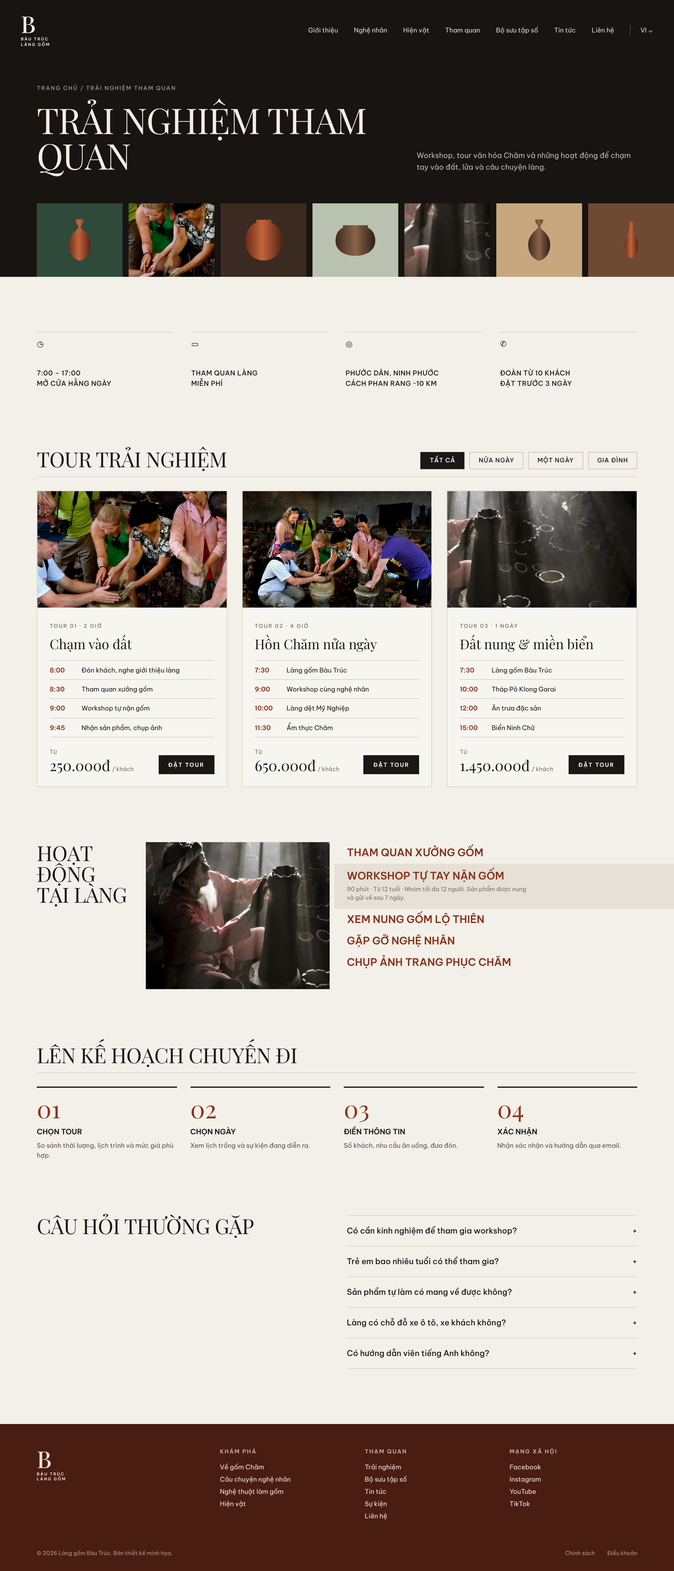
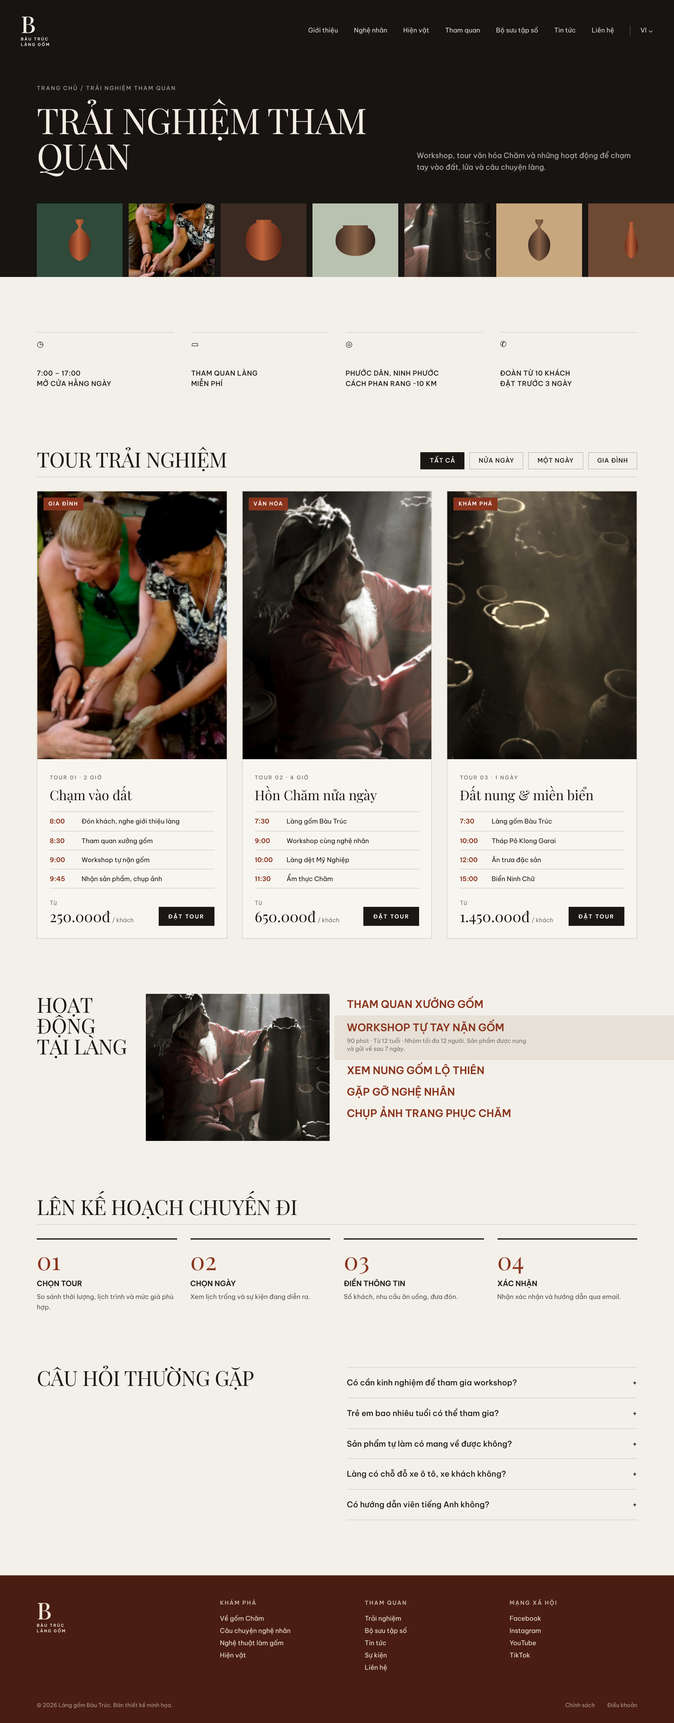
A4 tour cards and tour detail page mockup
Claude-Session: https://claude.ai/code/session_01ADwpjtFCyopsj64y6iybqi

diff --git a/design/subpages/chi-tiet-tour.html b/design/subpages/chi-tiet-tour.html
@@ -1,0 +1,230 @@
+<!doctype html>
+<html lang="vi">
+<head>
+<meta charset="UTF-8">
+<meta name="viewport" content="width=device-width,initial-scale=1">
+<title>Làng gốm Bàu Trúc</title>
+<link rel="preconnect" href="https://fonts.googleapis.com">
+<link href="https://fonts.googleapis.com/css2?family=Playfair+Display:wght@400;500&family=Be+Vietnam+Pro:wght@300;400;500;600;700;800&display=swap" rel="stylesheet">
+<style>
+:root{
+  --ink:#1b1714; --paper:#f3f0ea; --line:#d9d3c8; --muted:#7a7068;
+  --clay:#a3442b; --clay-dk:#4a1d12; --sand:#e8dccb; --accent:#8a341d;
+}
+*{box-sizing:border-box;margin:0;padding:0}
+body{background:var(--paper);color:var(--ink);font:400 12px/1.55 "Be Vietnam Pro",system-ui,sans-serif}
+.wrap{width:1100px;margin:0 auto;padding:0 60px}
+.serif{font-family:"Playfair Display",Georgia,serif}
+h2{font:400 34px/1 "Playfair Display",Georgia,serif;text-transform:uppercase;letter-spacing:-.5px}
+.head{display:flex;justify-content:space-between;align-items:flex-end;border-bottom:1px solid var(--line);padding-bottom:12px;margin-bottom:22px}
+.more{font:600 10px/1 "Be Vietnam Pro";letter-spacing:1.5px;text-transform:uppercase}
+.more::after{content:" ↗"}
+.tag{font:500 8.5px/1.2 "Be Vietnam Pro";letter-spacing:1.4px;text-transform:uppercase;color:var(--muted)}
+section{padding:90px 0 0}
+.img{background:#3a2a20 center/cover no-repeat}
+.a{background-image:url(../../artisan.jpg)} .p{background-image:url(../../pottery.jpg)}
+
+/* HERO */
+.hero{background:#171412;color:#f3ede4;padding:0 0 30px;overflow:hidden}
+nav{display:flex;justify-content:space-between;align-items:center;padding:22px 34px}
+.logo{display:flex;flex-direction:column;align-items:flex-start;line-height:1}
+.logo b{font:500 38px/0.9 "Playfair Display",serif}
+.logo small{font:600 6.5px/1.3 "Be Vietnam Pro";letter-spacing:1.4px;margin-top:4px}
+nav ul{display:flex;gap:26px;list-style:none;font-size:10.5px;opacity:.9}
+nav ul li:last-child{border-left:1px solid #5a514a;padding-left:16px}
+.hero h1{text-align:center;font:400 64px/1 "Playfair Display",serif;margin-top:20px;letter-spacing:-1px}
+.hero .sub{text-align:center;font:400 15px/1 "Be Vietnam Pro";letter-spacing:4px;margin-top:10px;opacity:.85}
+.collage{display:flex;align-items:center;justify-content:center;gap:10px;margin-top:-6px;height:330px}
+.collage>div{flex:none;box-shadow:0 20px 40px #0008}
+
+/* VISIT */
+.visit{display:grid;grid-template-columns:1fr 1fr 1fr 1fr;gap:28px;align-items:end}
+.visit .ic{font-size:13px;border-top:1px solid var(--line);padding-top:8px;height:100px}
+.visit p{font:500 11px/1.5 "Be Vietnam Pro";text-transform:uppercase;letter-spacing:.4px}
+.visit .tag{display:block;margin-top:6px}
+.visit .ph{height:150px}
+
+/* EXHIBITIONS */
+.ex{display:grid;grid-template-columns:repeat(6,1fr);gap:14px;align-items:start}
+.ex .t{width:100%}
+.ex h4{font:500 12.5px/1.25 "Be Vietnam Pro";color:var(--accent);margin-top:3px}
+.ex .tag{margin-top:8px;display:block}
+
+/* CURRENT */
+.cur{display:grid;grid-template-columns:150px 300px 1fr;gap:28px}
+.cur h3{font:600 17px/1.2 "Be Vietnam Pro";color:var(--accent);text-transform:uppercase}
+.cur .d{font-size:10px;color:var(--muted);margin:6px 0 12px}
+.cur p.body{font-size:10.5px;color:#4a423c;max-width:330px}
+
+/* OFFERS */
+.off{display:grid;grid-template-columns:150px 300px 1fr;gap:28px;align-items:start}
+.off ul{list-style:none;margin-top:-6px}
+.off li{font:600 17px/1 "Be Vietnam Pro";text-transform:uppercase;color:var(--accent);padding:9px 0}
+.off li.on{background:#e6e0d6;margin:0 -60px 0 -20px;padding:12px 60px 12px 20px;position:relative}
+.off li.on span{display:block;font:400 9.5px/1.4 "Be Vietnam Pro";text-transform:none;color:var(--muted);margin-top:6px;max-width:300px}
+
+/* DIGITAL */
+.dig{position:relative;height:420px;overflow:hidden}
+.dig .bg{position:absolute;inset:0;background-position:50% 35%;filter:sepia(.35) saturate(1.2)}
+.dig .bg::after{content:"";position:absolute;inset:0;background:radial-gradient(ellipse at 62% 30%,#0009,transparent 45%),linear-gradient(transparent 40%,#0008)}
+.dig .c{position:absolute;left:68%;top:30%;transform:translate(-50%,-50%);color:#fff;text-align:center;font-size:12px;line-height:1.4}
+.dig .c b{display:block;margin-top:8px;letter-spacing:1.5px;font-size:10px}
+.dig h2{position:absolute;bottom:10px;left:0;right:0;text-align:center;color:#fff;font:800 92px/1 "Be Vietnam Pro";letter-spacing:-2px;white-space:nowrap}
+
+/* ABOUT */
+.ab{display:grid;grid-template-columns:1fr 1fr;gap:28px}
+.ab .lead{font:600 14px/1.35 "Be Vietnam Pro";text-transform:uppercase;color:var(--accent)}
+.ab .lead.r{grid-column:2}
+.ab p.body{font-size:10.5px;color:#4a423c;column-count:1}
+.ab-imgs{display:grid;grid-template-columns:1fr 1fr 1fr 1fr;gap:16px;margin-top:40px;align-items:start}
+
+/* PRESS */
+.pr{border-top:1px solid var(--line)}
+.row{display:grid;grid-template-columns:230px 140px 1fr 30px;gap:30px;padding:16px 0;border-bottom:1px solid var(--line);align-items:start}
+.row.on{background:#e6e0d6;margin:0 -60px;padding:18px 60px}
+.row h5{font:500 13px/1.3 "Be Vietnam Pro";color:var(--accent)}
+.row .d{font-size:9.5px;color:var(--muted);margin-top:4px}
+.row p{font-size:9.5px;color:#7d746c;max-width:380px}
+.row .arr{text-align:right;color:#b8afa5}
+.row.on .arr{color:var(--ink)}
+
+footer{background:var(--clay-dk);color:#efe3d6;margin-top:90px;padding:40px 0 22px}
+.fg{display:grid;grid-template-columns:1.3fr 1fr 1fr 1fr;gap:28px}
+footer h6{font:600 9px/1 "Be Vietnam Pro";letter-spacing:1.4px;margin-bottom:12px;opacity:.75}
+footer li{list-style:none;font-size:10.5px;line-height:1.9}
+.fb{display:flex;justify-content:space-between;font-size:9px;opacity:.6;margin-top:44px}
+.fb span{margin-left:20px}
+
+.facts4{display:grid;grid-template-columns:repeat(4,1fr);gap:28px;margin-top:44px}
+.facts4 div{border-top:1px solid var(--line);padding-top:12px}
+.facts4 b{display:block;font:400 30px/1 "Playfair Display",serif;color:var(--accent)}
+.facts4 span{font:500 10px/1.4 "Be Vietnam Pro";text-transform:uppercase;letter-spacing:.8px}
+.story{display:grid;grid-template-columns:300px 1fr;gap:40px}
+.story blockquote{font:400 24px/1.3 "Playfair Display",serif;margin-bottom:18px}
+.story .who{font:600 11px/1 "Be Vietnam Pro";letter-spacing:1.4px;text-transform:uppercase;color:var(--accent)}
+.thumbs{display:flex;gap:12px;margin-top:26px}
+.steps{display:grid;grid-template-columns:repeat(5,1fr);gap:14px}
+.steps .n{font:400 40px/1 "Playfair Display",serif;color:var(--accent);margin:14px 0 6px}
+.steps h4{font:600 12px/1.3 "Be Vietnam Pro";text-transform:uppercase;margin-bottom:6px}
+.steps p{font-size:10px;color:#5a514a}
+.ev{display:grid;grid-template-columns:repeat(3,1fr);gap:24px}
+.ev .card{border-top:2px solid var(--ink);padding-top:14px}
+.ev .day{font:400 56px/1 "Playfair Display",serif}
+.ev .mon{font:600 10px/1 "Be Vietnam Pro";letter-spacing:1.4px;text-transform:uppercase;color:var(--muted);margin:4px 0 14px}
+.ev h4{font:600 15px/1.3 "Be Vietnam Pro";color:var(--accent);margin-bottom:6px}
+.ev p{font-size:10.5px;color:#5a514a}
+.ev .ph{height:150px;margin-top:16px}
+.ct{display:grid;grid-template-columns:1fr 1fr;gap:40px}
+.ct dl div{display:grid;grid-template-columns:110px 1fr;border-bottom:1px solid var(--line);padding:12px 0;font-size:12px}
+.ct dt{font:600 9px/1.6 "Be Vietnam Pro";letter-spacing:1.4px;text-transform:uppercase;color:var(--muted)}
+.field{border-bottom:1px solid #b9b0a5;padding:14px 0 8px;font-size:11px;color:#9a9087}
+.btn{display:inline-block;margin-top:22px;background:var(--accent);color:#fff;font:600 10px/1 "Be Vietnam Pro";letter-spacing:1.5px;padding:14px 26px}
+.map{height:200px;margin-top:24px;background:#e3dccf;position:relative;overflow:hidden}
+
+.sub-hero{background:#171412;color:#f3ede4;padding-bottom:0;position:relative;overflow:hidden}
+.sub-hero .in{padding:40px 60px 50px;width:1100px;margin:0 auto;display:grid;grid-template-columns:1fr 360px;gap:40px;align-items:end}
+.crumb{font:500 9px/1 "Be Vietnam Pro";letter-spacing:1.4px;text-transform:uppercase;opacity:.6;margin-bottom:18px}
+.sub-hero h1{font:400 58px/1 "Playfair Display",serif;letter-spacing:-1px;text-transform:uppercase}
+.sub-hero p{font-size:12px;opacity:.75;line-height:1.6}
+.sub-hero .strip{display:flex;gap:10px;height:120px;padding:0 0 0 60px}
+.sub-hero .strip>div{flex:1}
+.tabs{display:flex;gap:8px;flex-wrap:wrap;margin-bottom:26px}
+.tabs span{border:1px solid #c9c0b4;padding:8px 14px;font:500 10px/1 "Be Vietnam Pro";letter-spacing:.6px;text-transform:uppercase}
+.tabs span.on{background:var(--ink);color:#fff;border-color:var(--ink)}
+.g4{display:grid;grid-template-columns:repeat(4,1fr);gap:22px}
+.g3{display:grid;grid-template-columns:repeat(3,1fr);gap:24px}
+.g2{display:grid;grid-template-columns:1fr 1fr;gap:32px}
+.card h4{font:600 13px/1.3 "Be Vietnam Pro";color:var(--accent);margin-top:4px}
+.card .tag{display:block;margin-top:10px}
+.card p{font-size:10.5px;color:#5a514a;margin-top:4px}
+.meta{display:flex;justify-content:space-between;font-size:9.5px;color:var(--muted);margin-top:8px;border-top:1px solid var(--line);padding-top:8px}
+.badge{position:absolute;top:10px;left:10px;background:#f3f0ea;color:var(--ink);font:600 8.5px/1 "Be Vietnam Pro";letter-spacing:1.2px;padding:6px 8px;text-transform:uppercase}
+.badge.dk{background:var(--accent);color:#fff}
+.rel{position:relative}
+.big{font:400 26px/1.2 "Playfair Display",serif}
+.cta{background:var(--accent);color:#f6ece2;padding:46px 50px;display:grid;grid-template-columns:1fr auto;align-items:center;gap:30px}
+.cta h3{font:400 34px/1.1 "Playfair Display",serif;text-transform:uppercase}
+.cta .btn{background:#f3f0ea;color:var(--ink);margin:0}
+.btnl{display:inline-block;border:1px solid var(--ink);font:600 10px/1 "Be Vietnam Pro";letter-spacing:1.5px;padding:13px 22px;margin-top:18px}
+.spec div{display:grid;grid-template-columns:120px 1fr;border-bottom:1px solid var(--line);padding:10px 0;font-size:11.5px}
+.spec dt{font:600 9px/1.6 "Be Vietnam Pro";letter-spacing:1.3px;text-transform:uppercase;color:var(--muted)}
+.tl{border-left:1px solid var(--line);margin-left:6px}
+.tl div{position:relative;padding:0 0 18px 22px}
+.tl div::before{content:"";position:absolute;left:-5px;top:3px;width:9px;height:9px;border-radius:50%;background:var(--accent)}
+.tl b{font:400 20px/1 "Playfair Display",serif;display:block;margin-bottom:4px}
+.tl span{font-size:11px;color:#4a423c}
+.pager{display:flex;gap:6px;justify-content:center;margin-top:40px;font:500 11px/1 "Be Vietnam Pro"}
+.pager span{width:34px;height:34px;display:grid;place-items:center;border:1px solid var(--line)}
+.pager span.on{background:var(--ink);color:#fff}
+.side{display:grid;grid-template-columns:200px 1fr;gap:36px}
+.filter h6{font:600 9px/1 "Be Vietnam Pro";letter-spacing:1.4px;text-transform:uppercase;color:var(--muted);margin:22px 0 10px}
+.filter label{display:flex;justify-content:space-between;font-size:11.5px;padding:5px 0}
+.filter label::before{content:"";width:11px;height:11px;border:1px solid #9a9087;margin-right:8px;flex:none}
+.filter label.on::before{background:var(--accent);border-color:var(--accent)}
+.filter label i{margin-left:auto;font-style:normal;color:var(--muted);font-size:10px}
+.search{border:1px solid #c9c0b4;padding:11px 14px;font-size:11px;color:#9a9087;display:flex;justify-content:space-between}
+.tour{border:1px solid var(--line);background:#f7f5f0}
+.tour .b{padding:20px}
+.tour h4{font:400 22px/1.15 "Playfair Display",serif;margin:8px 0}
+.tour ol{list-style:none;margin:14px 0;border-top:1px solid var(--line)}
+.tour li{display:grid;grid-template-columns:52px 1fr;font-size:10.5px;padding:7px 0;border-bottom:1px solid var(--line)}
+.tour li b{color:var(--accent);font-weight:600}
+.price{display:flex;justify-content:space-between;align-items:end;margin-top:12px}
+.price b{font:400 24px/1 "Playfair Display",serif}
+.price small{font-size:9.5px;color:var(--muted)}
+.mini{font:600 9px/1 "Be Vietnam Pro";letter-spacing:1.4px;text-transform:uppercase;background:var(--ink);color:#fff;padding:11px 16px}
+.cal{display:grid;grid-template-columns:repeat(7,1fr);border-top:1px solid var(--line);border-left:1px solid var(--line)}
+.cal div{border-right:1px solid var(--line);border-bottom:1px solid var(--line);height:64px;padding:6px 8px;font-size:10.5px}
+.cal .h{height:auto;font:600 9px/1 "Be Vietnam Pro";letter-spacing:1.2px;color:var(--muted);padding:8px}
+.cal .e{background:#efe4d8}
+.cal .e i{display:block;font-style:normal;font-size:8.5px;color:var(--accent);font-weight:600;margin-top:6px;line-height:1.25}
+.cal .m{color:#c5bdb2}
+.qa div{border-top:1px solid var(--line);padding:16px 0;display:flex;justify-content:space-between;font:500 13px/1.3 "Be Vietnam Pro"}
+.qa div:last-child{border-bottom:1px solid var(--line)}
+.prof{display:grid;grid-template-columns:380px 1fr;gap:50px}
+.stat{display:grid;grid-template-columns:repeat(3,1fr);gap:20px;margin:26px 0}
+.stat b{display:block;font:400 34px/1 "Playfair Display",serif;color:var(--accent)}
+.stat span{font:500 9.5px/1.4 "Be Vietnam Pro";letter-spacing:.8px;text-transform:uppercase}
+.award{display:grid;grid-template-columns:60px 1fr auto;gap:16px;border-top:1px solid var(--line);padding:14px 0;align-items:center}
+.award .ic{width:52px;height:52px;border-radius:50%;border:1px solid var(--accent);display:grid;place-items:center;color:var(--accent);font:400 18px "Playfair Display"}
+.award h5{font:600 12.5px/1.3 "Be Vietnam Pro"}
+.award p{font-size:10px;color:var(--muted)}
+.viewer360{height:430px;position:relative;background:radial-gradient(circle at 50% 45%,#3b2c22,#120e0c 70%);display:grid;place-items:center}
+.viewer360 .ctrl{position:absolute;bottom:16px;left:50%;transform:translateX(-50%);display:flex;gap:8px}
+.viewer360 .ctrl span{white-space:nowrap;background:#ffffff1a;color:#fff;font:500 9.5px/1 "Be Vietnam Pro";padding:9px 14px;letter-spacing:1px}
+.ring{position:absolute;width:300px;height:60px;border:1px dashed #ffffff40;border-radius:50%;bottom:70px}
+</style></head><body><!-- SVG pottery defs -->
+<svg width="0" height="0" style="position:absolute">
+  <defs>
+    <linearGradient id="clay" x1="0" x2="1"><stop offset="0" stop-color="#6e2c18"/><stop offset=".45" stop-color="#c0653d"/><stop offset="1" stop-color="#5a2312"/></linearGradient>
+    <linearGradient id="clay2" x1="0" x2="1"><stop offset="0" stop-color="#3d2a20"/><stop offset=".5" stop-color="#8a6448"/><stop offset="1" stop-color="#2e1f17"/></linearGradient>
+    <symbol id="vase1" viewBox="0 0 100 140"><path d="M38 6h24v6c0 6-8 10-8 18 0 8 30 20 30 54 0 30-18 46-34 50-16-4-34-20-34-50 0-34 30-46 30-54 0-8-8-12-8-18z"/></symbol>
+    <symbol id="vase2" viewBox="0 0 100 140"><path d="M42 4h16l-2 6c-2 30 18 50 18 80 0 28-12 42-24 46-12-4-24-18-24-46 0-30 20-50 18-80z"/></symbol>
+    <symbol id="bowl" viewBox="0 0 100 60"><path d="M4 8h92c0 28-20 46-46 46S4 36 4 8z"/></symbol>
+    <symbol id="jar" viewBox="0 0 100 120"><path d="M30 6h40v8c22 8 28 30 28 50 0 30-22 50-48 50S2 94 2 64c0-20 6-42 28-50z"/></symbol>
+  <symbol id="pot" viewBox="0 0 100 80"><path d="M20 4h60v6c14 6 18 20 18 32 0 22-20 36-48 36S2 64 2 42c0-12 4-26 18-32z"/></symbol></defs>
+</svg>
+
+<header class="sub-hero"><nav>
+    <div class="logo"><b>B</b><small>BÀU TRÚC<br>LÀNG GỐM</small></div>
+    <ul><li>Giới thiệu</li><li>Nghệ nhân</li><li>Hiện vật</li><li>Tham quan</li><li>Bộ sưu tập số</li><li>Tin tức</li><li>Liên hệ</li><li>VI ⌄</li></ul>
+  </nav><div class="in" style="padding-bottom:36px"><div><div class="crumb">Trang chủ / Trải nghiệm tham quan / Tour</div><h1 style="font-size:44px">Chi tiết tour</h1></div><p>Lịch trình, giá và thông tin đặt tour trải nghiệm tại làng gốm Bàu Trúc.</p></div></header><main class="wrap">
+<section><div style="display:grid;grid-template-columns:400px 1fr;gap:50px;align-items:start">
+<div><div class="rel"><div class="img a" style="aspect-ratio:1/1.414;background-position:30% 20%;background-size:auto 1100px;"></div><span class="badge dk">Tour 02 · Văn hóa</span></div><div style="display:grid;grid-template-columns:repeat(3,1fr);gap:10px;margin-top:10px"><div class="img p" style="aspect-ratio:1/1.414;background-position:70% 35%;background-size:auto 500px;"></div><div class="img p" style="aspect-ratio:1/1.414;background-position:45% 60%;background-size:auto 500px;"></div><div class="img a" style="aspect-ratio:1/1.414;background-position:82% 55%;background-size:auto 500px;filter:sepia(.5)"></div></div></div>
+<div><span class="tag">Tour 02 · Nửa ngày · Văn hóa Chăm</span><div class="big" style="font-size:46px;margin:12px 0 16px">Hồn Chăm nửa ngày</div><p style="font-size:12.5px;color:#4a423c;max-width:520px">Một buổi sáng đi qua đất, lửa và sợi chỉ: từ xưởng gốm Bàu Trúc đến làng dệt Mỹ Nghiệp, khép lại bằng bữa trưa Chăm. Phù hợp cho gia đình, nhóm bạn và khách quốc tế.</p>
+<dl class="spec" style="margin:22px 0"><div><dt>Thời lượng</dt><dd>4 giờ · 7:30 – 11:30</dd></div><div><dt>Khởi hành</dt><dd>Hằng ngày, trừ ngày lễ Katê</dd></div><div><dt>Nhóm</dt><dd>2 – 15 khách</dd></div><div><dt>Ngôn ngữ</dt><dd>Tiếng Việt, tiếng Anh</dd></div><div><dt>Điểm hẹn</dt><dd>Nhà trưng bày làng gốm Bàu Trúc</dd></div></dl>
+<div style="background:#e9e3d9;padding:24px"><div class="price" style="margin:0 0 16px"><div><small>Giá từ</small><br><b style="font-size:34px">650.000đ</b> <small>/ khách</small></div><small>Trẻ em dưới 12 tuổi: 450.000đ</small></div>
+<div style="display:grid;grid-template-columns:1fr 1fr;gap:12px"><div class="search" style="background:#f7f5f0"><span>Ngày khởi hành: 20.11.2026</span><span>▦</span></div><div class="search" style="background:#f7f5f0"><span>Số khách: 2 người lớn</span><span>⌄</span></div></div>
+<div style="display:flex;justify-content:space-between;align-items:center;margin-top:16px"><div style="font-size:11px">Tạm tính: <b style="font:400 20px Playfair Display,serif">1.300.000đ</b></div><span class="btn" style="margin:0">ĐẶT TOUR NGAY ↗</span></div></div></div></div></section>
+<section><div class="head"><h2>Lịch trình chi tiết</h2><span class="more">Tải lịch trình PDF</span></div><div style="display:grid;grid-template-columns:80px 1fr 150px;gap:28px;border-top:1px solid var(--line);padding:22px 0"><div style="font:400 26px/1 Playfair Display,serif;color:var(--accent)">7:30</div><div><div style="font:600 10px/1 Be Vietnam Pro;letter-spacing:1.4px;color:var(--muted)">CHẶNG 01</div><h4 style="font:600 16px/1.3 Be Vietnam Pro;margin:8px 0 6px">Đón khách tại làng gốm Bàu Trúc</h4><p style="font-size:11.5px;color:#4a423c;max-width:420px">Nghe giới thiệu lịch sử làng Pa Leng và nghề gốm của người Chăm.</p></div><div class="img p" style="aspect-ratio:1/1.414;background-position:70% 35%;background-size:auto 900px;"></div></div><div style="display:grid;grid-template-columns:80px 1fr 150px;gap:28px;border-top:1px solid var(--line);padding:22px 0"><div style="font:400 26px/1 Playfair Display,serif;color:var(--accent)">8:00</div><div><div style="font:600 10px/1 Be Vietnam Pro;letter-spacing:1.4px;color:var(--muted)">CHẶNG 02</div><h4 style="font:600 16px/1.3 Be Vietnam Pro;margin:8px 0 6px">Tham quan xưởng gốm gia đình</h4><p style="font-size:11.5px;color:#4a423c;max-width:420px">Quan sát nghệ nhân đi vòng quanh bàn đất, nặn gốm không bàn xoay.</p></div><div class="img a" style="aspect-ratio:1/1.414;background-position:30% 20%;background-size:auto 800px;"></div></div><div style="display:grid;grid-template-columns:80px 1fr 150px;gap:28px;border-top:1px solid var(--line);padding:22px 0"><div style="font:400 26px/1 Playfair Display,serif;color:var(--accent)">9:00</div><div><div style="font:600 10px/1 Be Vietnam Pro;letter-spacing:1.4px;color:var(--muted)">CHẶNG 03</div><h4 style="font:600 16px/1.3 Be Vietnam Pro;margin:8px 0 6px">Workshop cùng nghệ nhân</h4><p style="font-size:11.5px;color:#4a423c;max-width:420px">Tự tay nhào đất, nặn hình và khắc hoa văn bằng vỏ sò, que tre.</p></div><div class="img p" style="aspect-ratio:1/1.414;background-position:45% 60%;background-size:auto 1000px;"></div></div><div style="display:grid;grid-template-columns:80px 1fr 150px;gap:28px;border-top:1px solid var(--line);padding:22px 0"><div style="font:400 26px/1 Playfair Display,serif;color:var(--accent)">10:00</div><div><div style="font:600 10px/1 Be Vietnam Pro;letter-spacing:1.4px;color:var(--muted)">CHẶNG 04</div><h4 style="font:600 16px/1.3 Be Vietnam Pro;margin:8px 0 6px">Làng dệt thổ cẩm Mỹ Nghiệp</h4><p style="font-size:11.5px;color:#4a423c;max-width:420px">Tìm hiểu khung dệt truyền thống và hoa văn thổ cẩm Chăm.</p></div><div style="aspect-ratio:1/1.414;background:repeating-linear-gradient(90deg,#8a341d 0 10px,#c8a77f 10px 14px,#2f4a3a 14px 22px,#e9c46a 22px 26px)"></div></div><div style="display:grid;grid-template-columns:80px 1fr 150px;gap:28px;border-top:1px solid var(--line);padding:22px 0"><div style="font:400 26px/1 Playfair Display,serif;color:var(--accent)">11:30</div><div><div style="font:600 10px/1 Be Vietnam Pro;letter-spacing:1.4px;color:var(--muted)">CHẶNG 05</div><h4 style="font:600 16px/1.3 Be Vietnam Pro;margin:8px 0 6px">Ẩm thực Chăm</h4><p style="font-size:11.5px;color:#4a423c;max-width:420px">Thưởng thức bữa trưa với các món đặc sản địa phương.</p></div><div style="aspect-ratio:1/1.414;background:#2f4a3a;display:grid;place-items:center"><svg viewBox="0 0 100 80" width="80%"><use href="#pot" fill="url(#clay)" width="100" height="80"/></svg></div></div></section>
+<section><div class="g2"><div><div class="head"><h2 style="font-size:26px">Bao gồm</h2></div><ul><li style="list-style:none;display:flex;gap:10px;padding:9px 0;border-bottom:1px solid var(--line);font-size:12px"><b style="color:var(--accent)">✓</b>Hướng dẫn viên địa phương</li><li style="list-style:none;display:flex;gap:10px;padding:9px 0;border-bottom:1px solid var(--line);font-size:12px"><b style="color:var(--accent)">✓</b>Workshop nặn gốm 60 phút cùng nghệ nhân</li><li style="list-style:none;display:flex;gap:10px;padding:9px 0;border-bottom:1px solid var(--line);font-size:12px"><b style="color:var(--accent)">✓</b>Vé tham quan làng dệt Mỹ Nghiệp</li><li style="list-style:none;display:flex;gap:10px;padding:9px 0;border-bottom:1px solid var(--line);font-size:12px"><b style="color:var(--accent)">✓</b>Bữa trưa ẩm thực Chăm</li><li style="list-style:none;display:flex;gap:10px;padding:9px 0;border-bottom:1px solid var(--line);font-size:12px"><b style="color:var(--accent)">✓</b>Nước uống, khăn lạnh, bảo hiểm du lịch</li></ul></div>
+<div><div class="head"><h2 style="font-size:26px">Không bao gồm</h2></div><ul><li style="list-style:none;display:flex;gap:10px;padding:9px 0;border-bottom:1px solid var(--line);font-size:12px"><b style="color:var(--accent)">×</b>Xe đưa đón từ khách sạn (có thể đặt thêm)</li><li style="list-style:none;display:flex;gap:10px;padding:9px 0;border-bottom:1px solid var(--line);font-size:12px"><b style="color:var(--accent)">×</b>Phí gửi sản phẩm gốm về nhà</li><li style="list-style:none;display:flex;gap:10px;padding:9px 0;border-bottom:1px solid var(--line);font-size:12px"><b style="color:var(--accent)">×</b>Chi tiêu cá nhân, mua sắm</li><li style="list-style:none;display:flex;gap:10px;padding:9px 0;border-bottom:1px solid var(--line);font-size:12px"><b style="color:var(--accent)">×</b>Tiền tip cho hướng dẫn viên</li></ul></div></div></section>
+<section><div class="g2" style="grid-template-columns:1.2fr 1fr"><div><div class="head"><h2 style="font-size:26px">Bản đồ hành trình</h2></div><div class="map" style="height:300px;margin:0"><svg width="100%" height="300"><path d="M0 220 C140 200 220 250 340 190 S520 120 620 140" stroke="#c9bda9" stroke-width="22" fill="none"/><path d="M90 0 L170 300 M380 0 L330 300 M0 90 L620 60" stroke="#f3f0ea" stroke-width="6"/><path d="M120 200 L230 150 L360 120 L470 180" stroke="#8a341d" stroke-width="2" stroke-dasharray="6 5" fill="none"/><circle cx="120" cy="200" r="14" fill="#8a341d"/><text x="120" y="204" text-anchor="middle" font-family="Be Vietnam Pro" font-size="11" font-weight="700" fill="#fff">1</text><text x="120" y="232" text-anchor="middle" font-family="Be Vietnam Pro" font-size="10.5" font-weight="600" fill="#1b1714">Làng gốm Bàu Trúc</text><circle cx="230" cy="150" r="14" fill="#8a341d"/><text x="230" y="154" text-anchor="middle" font-family="Be Vietnam Pro" font-size="11" font-weight="700" fill="#fff">2</text><text x="230" y="182" text-anchor="middle" font-family="Be Vietnam Pro" font-size="10.5" font-weight="600" fill="#1b1714">Xưởng gốm</text><circle cx="360" cy="120" r="14" fill="#8a341d"/><text x="360" y="124" text-anchor="middle" font-family="Be Vietnam Pro" font-size="11" font-weight="700" fill="#fff">3</text><text x="360" y="152" text-anchor="middle" font-family="Be Vietnam Pro" font-size="10.5" font-weight="600" fill="#1b1714">Làng dệt Mỹ Nghiệp</text><circle cx="470" cy="180" r="14" fill="#8a341d"/><text x="470" y="184" text-anchor="middle" font-family="Be Vietnam Pro" font-size="11" font-weight="700" fill="#fff">4</text><text x="470" y="212" text-anchor="middle" font-family="Be Vietnam Pro" font-size="10.5" font-weight="600" fill="#1b1714">Nhà hàng Chăm</text></svg></div></div>
+<div><div class="head"><h2 style="font-size:26px">Lưu ý</h2></div><div class="qa"><div><span>Trang phục: mặc đồ thoải mái, có thể dính đất</span><span>+</span></div><div><span>Chính sách hủy: miễn phí trước 48 giờ</span><span>+</span></div><div><span>Sản phẩm gốm được nung và gửi sau 7 ngày</span><span>+</span></div><div><span>Thời tiết: tour vẫn diễn ra khi mưa nhẹ</span><span>+</span></div></div></div></div></section>
+<section><div class="head"><h2>Tour khác</h2><span class="more">Tất cả tour</span></div><div class="g3" style="align-items:start"><div class="tour"><div class="rel"><div class="img p" style="aspect-ratio:1/1.414;background-position:45% 60%;background-size:auto 1000px;"></div><span class="badge dk">Gia đình</span></div><div class="b"><span class="tag">2 giờ</span><h4>Chạm vào đất</h4><div class="price"><div><small>Từ</small><br><b>250.000đ</b></div><span class="mini">XEM TOUR</span></div></div></div><div class="tour"><div class="rel"><div class="img a" style="aspect-ratio:1/1.414;background-position:82% 55%;background-size:auto 900px;filter:sepia(.5) saturate(1.4)"></div><span class="badge dk">Khám phá</span></div><div class="b"><span class="tag">1 ngày</span><h4>Đất nung & miền biển</h4><div class="price"><div><small>Từ</small><br><b>1.450.000đ</b></div><span class="mini">XEM TOUR</span></div></div></div><div class="cta" style="display:block;padding:34px"><span class="tag" style="color:#f6ece2aa">Đoàn riêng</span><h3 style="font-size:28px;margin:12px 0">Thiết kế tour theo yêu cầu</h3><p style="font-size:11px;opacity:.85">Trường học, doanh nghiệp, đoàn từ 10 khách — liên hệ để nhận lịch trình riêng.</p><span class="btn" style="margin-top:22px">LIÊN HỆ ↗</span></div></div></section></main><footer><div class="wrap"><div class="fg">
+<div class="logo"><b>B</b><small>BÀU TRÚC<br>LÀNG GỐM</small></div>
+<div><h6>KHÁM PHÁ</h6><ul><li>Về gốm Chăm</li><li>Câu chuyện nghệ nhân</li><li>Nghệ thuật làm gốm</li><li>Hiện vật</li></ul></div>
+<div><h6>THAM QUAN</h6><ul><li>Trải nghiệm</li><li>Bộ sưu tập số</li><li>Tin tức</li><li>Sự kiện</li><li>Liên hệ</li></ul></div>
+<div><h6>MẠNG XÃ HỘI</h6><ul><li>Facebook</li><li>Instagram</li><li>YouTube</li><li>TikTok</li></ul></div>
+</div><div class="fb"><div>© 2026 Làng gốm Bàu Trúc. Bản thiết kế minh họa.</div><div><span>Chính sách</span><span>Điều khoản</span></div></div></div></footer>
+</body></html>

diff --git a/design/subpages/trai-nghiem.html b/design/subpages/trai-nghiem.html
@@ -210,7 +210,7 @@ footer li{list-style:none;font-size:10.5px;line-height:1.9}
     <ul><li>Giới thiệu</li><li>Nghệ nhân</li><li>Hiện vật</li><li>Tham quan</li><li>Bộ sưu tập số</li><li>Tin tức</li><li>Liên hệ</li><li>VI ⌄</li></ul>
   </nav><div class="in"><div><div class="crumb">Trang chủ / Trải nghiệm tham quan</div><h1>Trải nghiệm tham quan</h1></div><p>Workshop, tour văn hóa Chăm và những hoạt động để chạm tay vào đất, lửa và câu chuyện làng.</p></div><div class="strip"><div style="height:120px;background:#2f4a3a;display:grid;place-items:center"><svg width="54" height="74"><use href="#vase1" fill="url(#clay)" width="54" height="74"/></svg></div><div class="img p" style="height:120px;background-position:45% 60%;background-size:auto 380px;"></div><div style="height:120px;background:#3b2a22;display:grid;place-items:center"><svg width="63" height="74"><use href="#jar" fill="url(#clay)" width="63" height="74"/></svg></div><div style="height:120px;background:#b9c2b0;display:grid;place-items:center"><svg width="70" height="54"><use href="#pot" fill="url(#clay2)" width="70" height="54"/></svg></div><div class="img a" style="height:120px;background-position:55% 40%;background-size:auto 520px;"></div><div style="height:120px;background:#c8a77f;display:grid;place-items:center"><svg width="54" height="74"><use href="#vase1" fill="url(#clay2)" width="54" height="74"/></svg></div><div style="height:120px;background:#6f4a33;display:grid;place-items:center"><svg width="45" height="74"><use href="#vase2" fill="url(#clay)" width="45" height="74"/></svg></div></div></header><main class="wrap">
 <section><div class="visit"><div class="ic">◷<div style="margin-top:30px"><p>7:00 – 17:00<br>Mở cửa hằng ngày</p></div></div><div class="ic">▭<div style="margin-top:30px"><p>Tham quan làng<br>Miễn phí</p></div></div><div class="ic">◎<div style="margin-top:30px"><p>Phước Dân, Ninh Phước<br>Cách Phan Rang ~10 km</p></div></div><div class="ic">✆<div style="margin-top:30px"><p>Đoàn từ 10 khách<br>Đặt trước 3 ngày</p></div></div></div></section>
-<section><div class="head"><h2>Tour trải nghiệm</h2><div class="tabs" style="margin:0"><span class="on">Tất cả</span><span>Nửa ngày</span><span>Một ngày</span><span>Gia đình</span></div></div><div class="g3" style="align-items:start"><div class="tour"><div class="img p" style="height:190px;background-position:45% 60%;background-size:auto 380px;"></div><div class="b"><span class="tag">Tour 01 · 2 giờ</span><h4>Chạm vào đất</h4><ol><li><b>8:00</b>Đón khách, nghe giới thiệu làng</li><li><b>8:30</b>Tham quan xưởng gốm</li><li><b>9:00</b>Workshop tự nặn gốm</li><li><b>9:45</b>Nhận sản phẩm, chụp ảnh</li></ol><div class="price"><div><small>Từ</small><br><b>250.000đ</b> <small>/ khách</small></div><span class="mini">ĐẶT TOUR</span></div></div></div><div class="tour"><div class="img p" style="height:190px;background-position:50% 55%;background-size:cover;"></div><div class="b"><span class="tag">Tour 02 · 4 giờ</span><h4>Hồn Chăm nửa ngày</h4><ol><li><b>7:30</b>Làng gốm Bàu Trúc</li><li><b>9:00</b>Workshop cùng nghệ nhân</li><li><b>10:00</b>Làng dệt Mỹ Nghiệp</li><li><b>11:30</b>Ẩm thực Chăm</li></ol><div class="price"><div><small>Từ</small><br><b>650.000đ</b> <small>/ khách</small></div><span class="mini">ĐẶT TOUR</span></div></div></div><div class="tour"><div class="img a" style="height:190px;background-position:90% 30%;background-size:auto 400px;"></div><div class="b"><span class="tag">Tour 03 · 1 ngày</span><h4>Đất nung & miền biển</h4><ol><li><b>7:30</b>Làng gốm Bàu Trúc</li><li><b>10:00</b>Tháp Pô Klong Garai</li><li><b>12:00</b>Ăn trưa đặc sản</li><li><b>15:00</b>Biển Ninh Chữ</li></ol><div class="price"><div><small>Từ</small><br><b>1.450.000đ</b> <small>/ khách</small></div><span class="mini">ĐẶT TOUR</span></div></div></div></div></section>
+<section><div class="head"><h2>Tour trải nghiệm</h2><div class="tabs" style="margin:0"><span class="on">Tất cả</span><span>Nửa ngày</span><span>Một ngày</span><span>Gia đình</span></div></div><div class="g3" style="align-items:start"><div class="tour"><div class="rel"><div class="img p" style="aspect-ratio:1/1.414;background-position:45% 60%;background-size:auto 1000px;"></div><span class="badge dk">Gia đình</span></div><div class="b"><span class="tag">Tour 01 · 2 giờ</span><h4>Chạm vào đất</h4><ol><li><b>8:00</b>Đón khách, nghe giới thiệu làng</li><li><b>8:30</b>Tham quan xưởng gốm</li><li><b>9:00</b>Workshop tự nặn gốm</li><li><b>9:45</b>Nhận sản phẩm, chụp ảnh</li></ol><div class="price"><div><small>Từ</small><br><b>250.000đ</b> <small>/ khách</small></div><span class="mini">ĐẶT TOUR</span></div></div></div><div class="tour"><div class="rel"><div class="img a" style="aspect-ratio:1/1.414;background-position:30% 20%;background-size:auto 900px;"></div><span class="badge dk">Văn hóa</span></div><div class="b"><span class="tag">Tour 02 · 4 giờ</span><h4>Hồn Chăm nửa ngày</h4><ol><li><b>7:30</b>Làng gốm Bàu Trúc</li><li><b>9:00</b>Workshop cùng nghệ nhân</li><li><b>10:00</b>Làng dệt Mỹ Nghiệp</li><li><b>11:30</b>Ẩm thực Chăm</li></ol><div class="price"><div><small>Từ</small><br><b>650.000đ</b> <small>/ khách</small></div><span class="mini">ĐẶT TOUR</span></div></div></div><div class="tour"><div class="rel"><div class="img a" style="aspect-ratio:1/1.414;background-position:82% 55%;background-size:auto 900px;filter:sepia(.5) saturate(1.4)"></div><span class="badge dk">Khám phá</span></div><div class="b"><span class="tag">Tour 03 · 1 ngày</span><h4>Đất nung & miền biển</h4><ol><li><b>7:30</b>Làng gốm Bàu Trúc</li><li><b>10:00</b>Tháp Pô Klong Garai</li><li><b>12:00</b>Ăn trưa đặc sản</li><li><b>15:00</b>Biển Ninh Chữ</li></ol><div class="price"><div><small>Từ</small><br><b>1.450.000đ</b> <small>/ khách</small></div><span class="mini">ĐẶT TOUR</span></div></div></div></div></section>
 <section><div class="off"><h2>Hoạt động tại làng</h2><div class="img a" style="height:240px;background-position:40% 30%;background-size:auto 480px;"></div><ul style="margin-top:0"><li>Tham quan xưởng gốm</li><li class="on">Workshop tự tay nặn gốm<span>90 phút · Từ 12 tuổi · Nhóm tối đa 12 người. Sản phẩm được nung và gửi về sau 7 ngày.</span></li><li>Xem nung gốm lộ thiên</li><li>Gặp gỡ nghệ nhân</li><li>Chụp ảnh trang phục Chăm</li></ul></div></section>
 <section><div class="head"><h2>Lên kế hoạch chuyến đi</h2></div><div class="g4"><div style="border-top:2px solid var(--ink);padding-top:14px"><div style="font:400 40px/1 Playfair Display,serif;color:var(--accent)">01</div><h4 style="font:600 12px/1.3 Be Vietnam Pro;text-transform:uppercase;margin:10px 0 6px">Chọn tour</h4><p style="font-size:10.5px;color:#5a514a">So sánh thời lượng, lịch trình và mức giá phù hợp.</p></div><div style="border-top:2px solid var(--ink);padding-top:14px"><div style="font:400 40px/1 Playfair Display,serif;color:var(--accent)">02</div><h4 style="font:600 12px/1.3 Be Vietnam Pro;text-transform:uppercase;margin:10px 0 6px">Chọn ngày</h4><p style="font-size:10.5px;color:#5a514a">Xem lịch trống và sự kiện đang diễn ra.</p></div><div style="border-top:2px solid var(--ink);padding-top:14px"><div style="font:400 40px/1 Playfair Display,serif;color:var(--accent)">03</div><h4 style="font:600 12px/1.3 Be Vietnam Pro;text-transform:uppercase;margin:10px 0 6px">Điền thông tin</h4><p style="font-size:10.5px;color:#5a514a">Số khách, nhu cầu ăn uống, đưa đón.</p></div><div style="border-top:2px solid var(--ink);padding-top:14px"><div style="font:400 40px/1 Playfair Display,serif;color:var(--accent)">04</div><h4 style="font:600 12px/1.3 Be Vietnam Pro;text-transform:uppercase;margin:10px 0 6px">Xác nhận</h4><p style="font-size:10.5px;color:#5a514a">Nhận xác nhận và hướng dẫn qua email.</p></div></div></section>
 <section><div class="g2"><div><h2>Câu hỏi thường gặp</h2></div><div class="qa"><div><span>Có cần kinh nghiệm để tham gia workshop?</span><span>+</span></div><div><span>Trẻ em bao nhiêu tuổi có thể tham gia?</span><span>+</span></div><div><span>Sản phẩm tự làm có mang về được không?</span><span>+</span></div><div><span>Làng có chỗ đỗ xe ô tô, xe khách không?</span><span>+</span></div><div><span>Có hướng dẫn viên tiếng Anh không?</span><span>+</span></div></div></div></section></main><footer><div class="wrap"><div class="fg">
